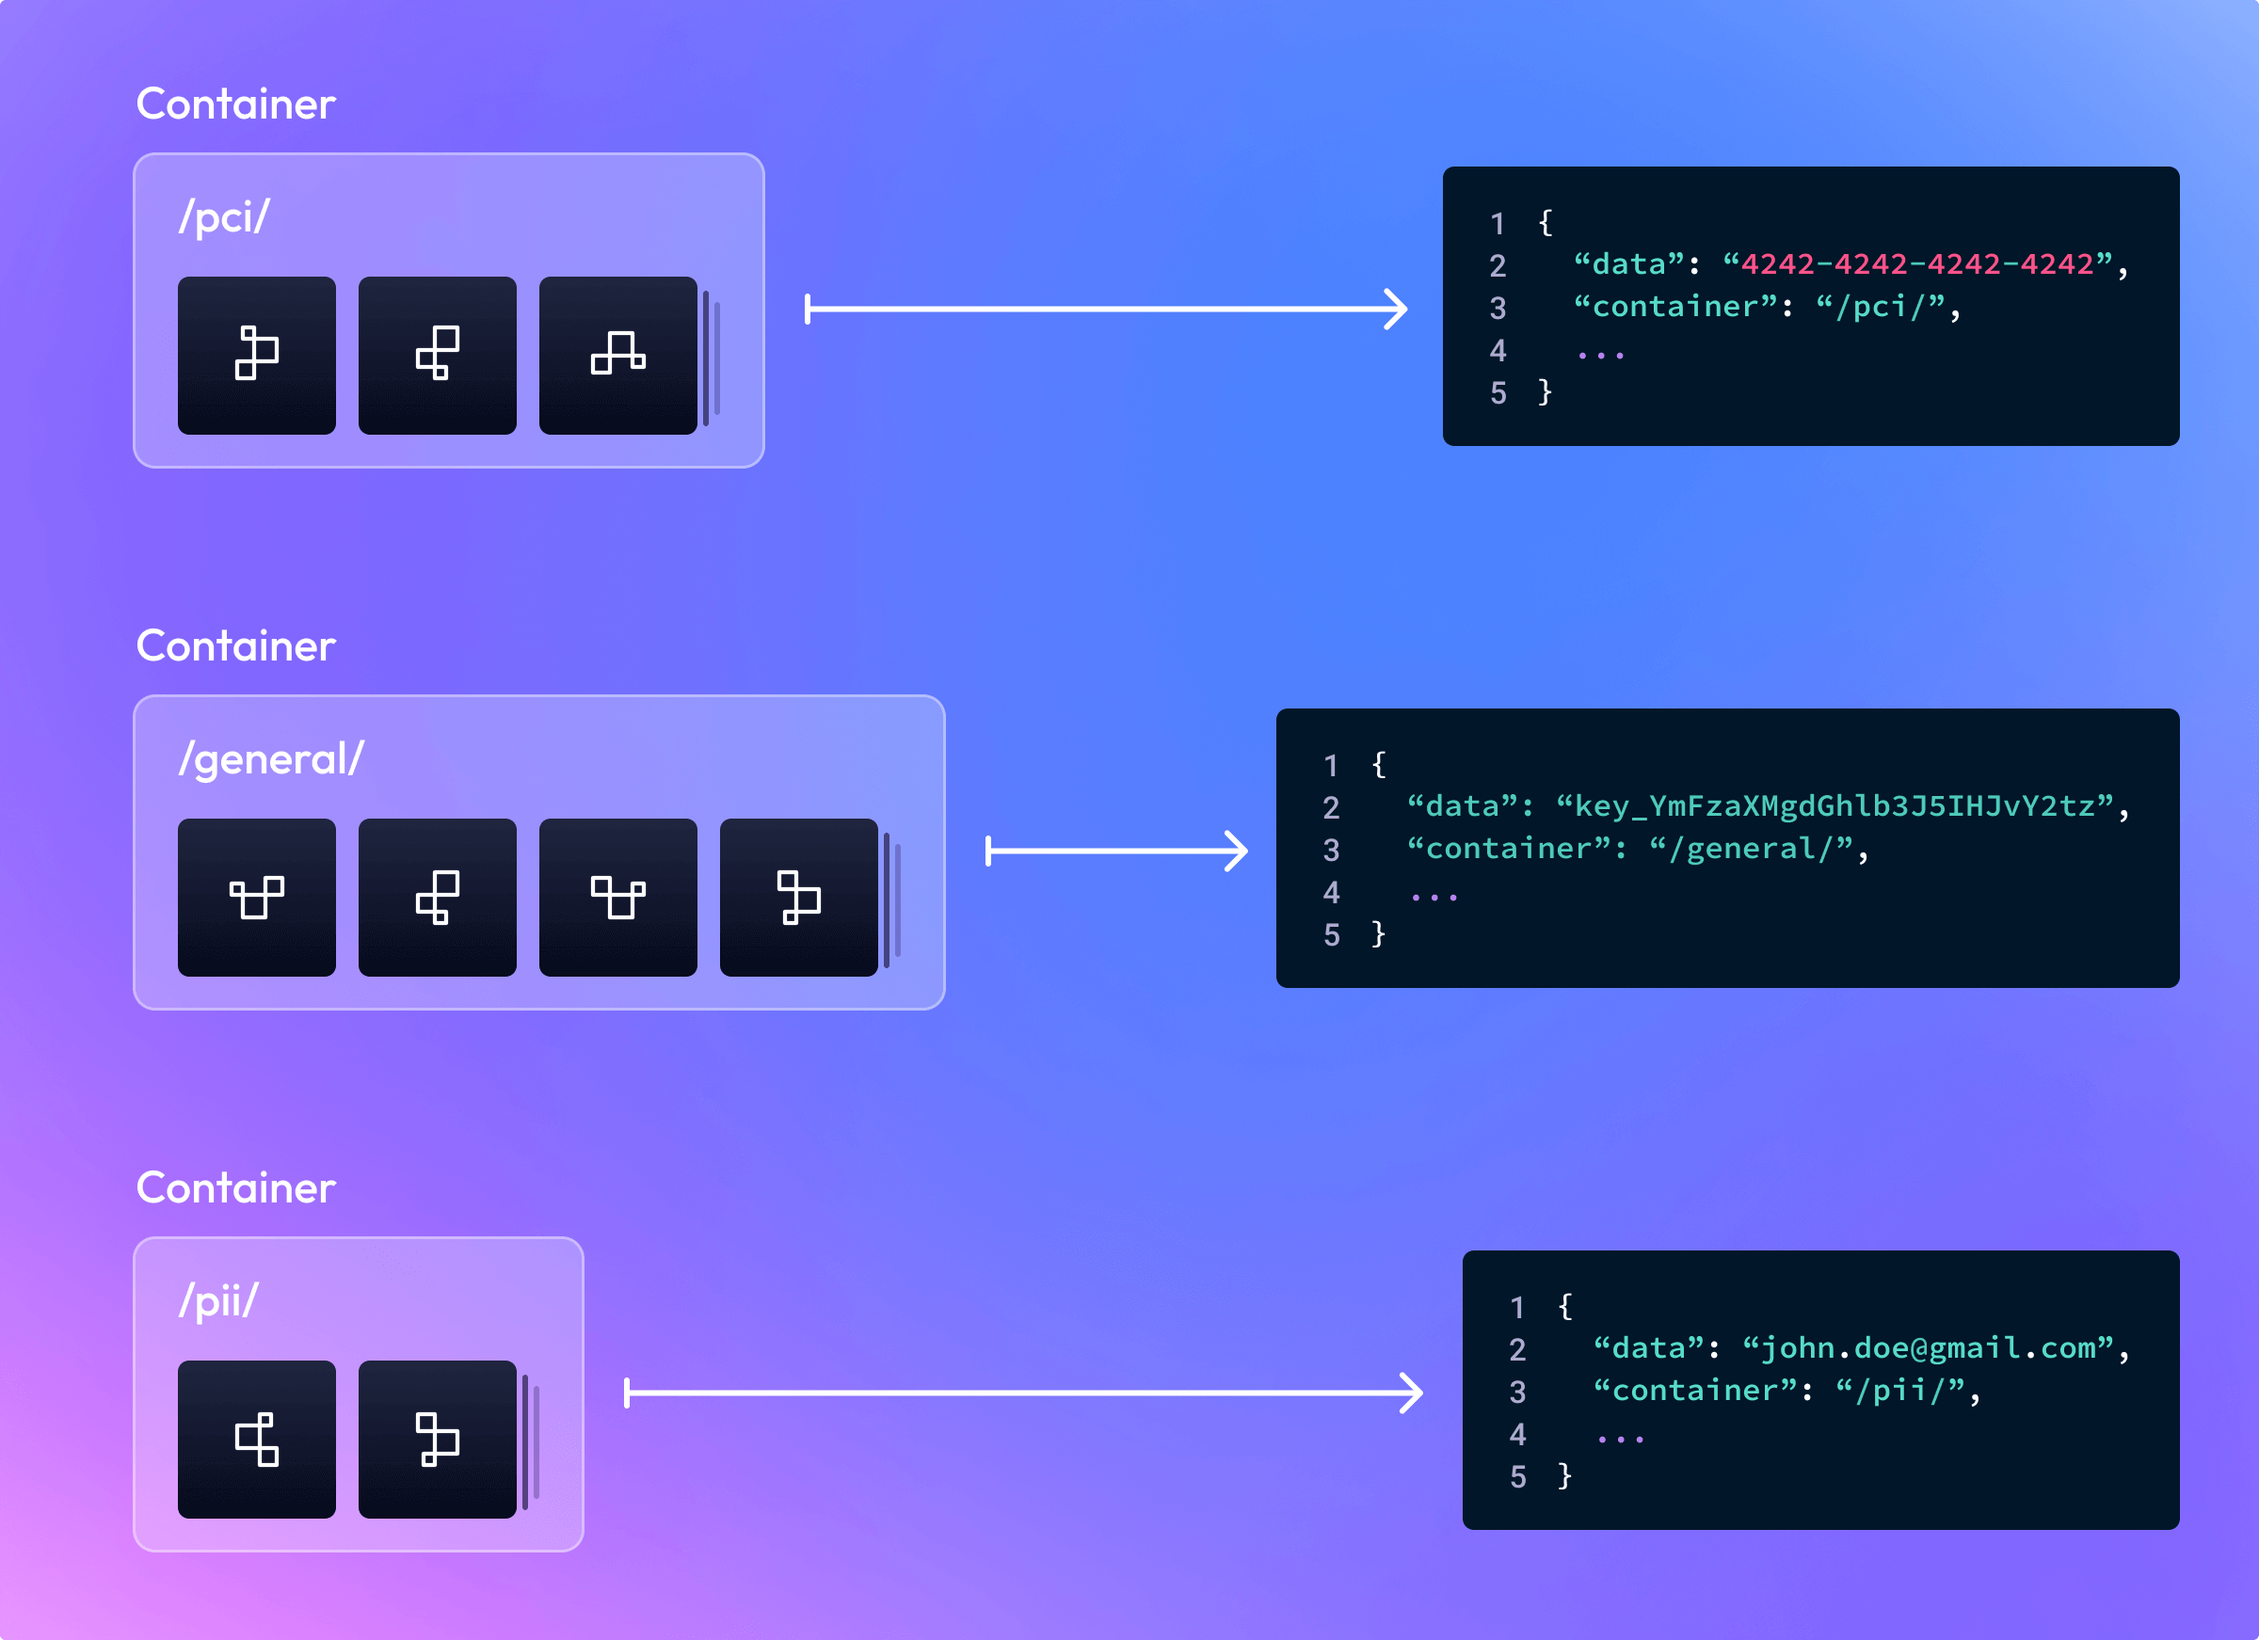
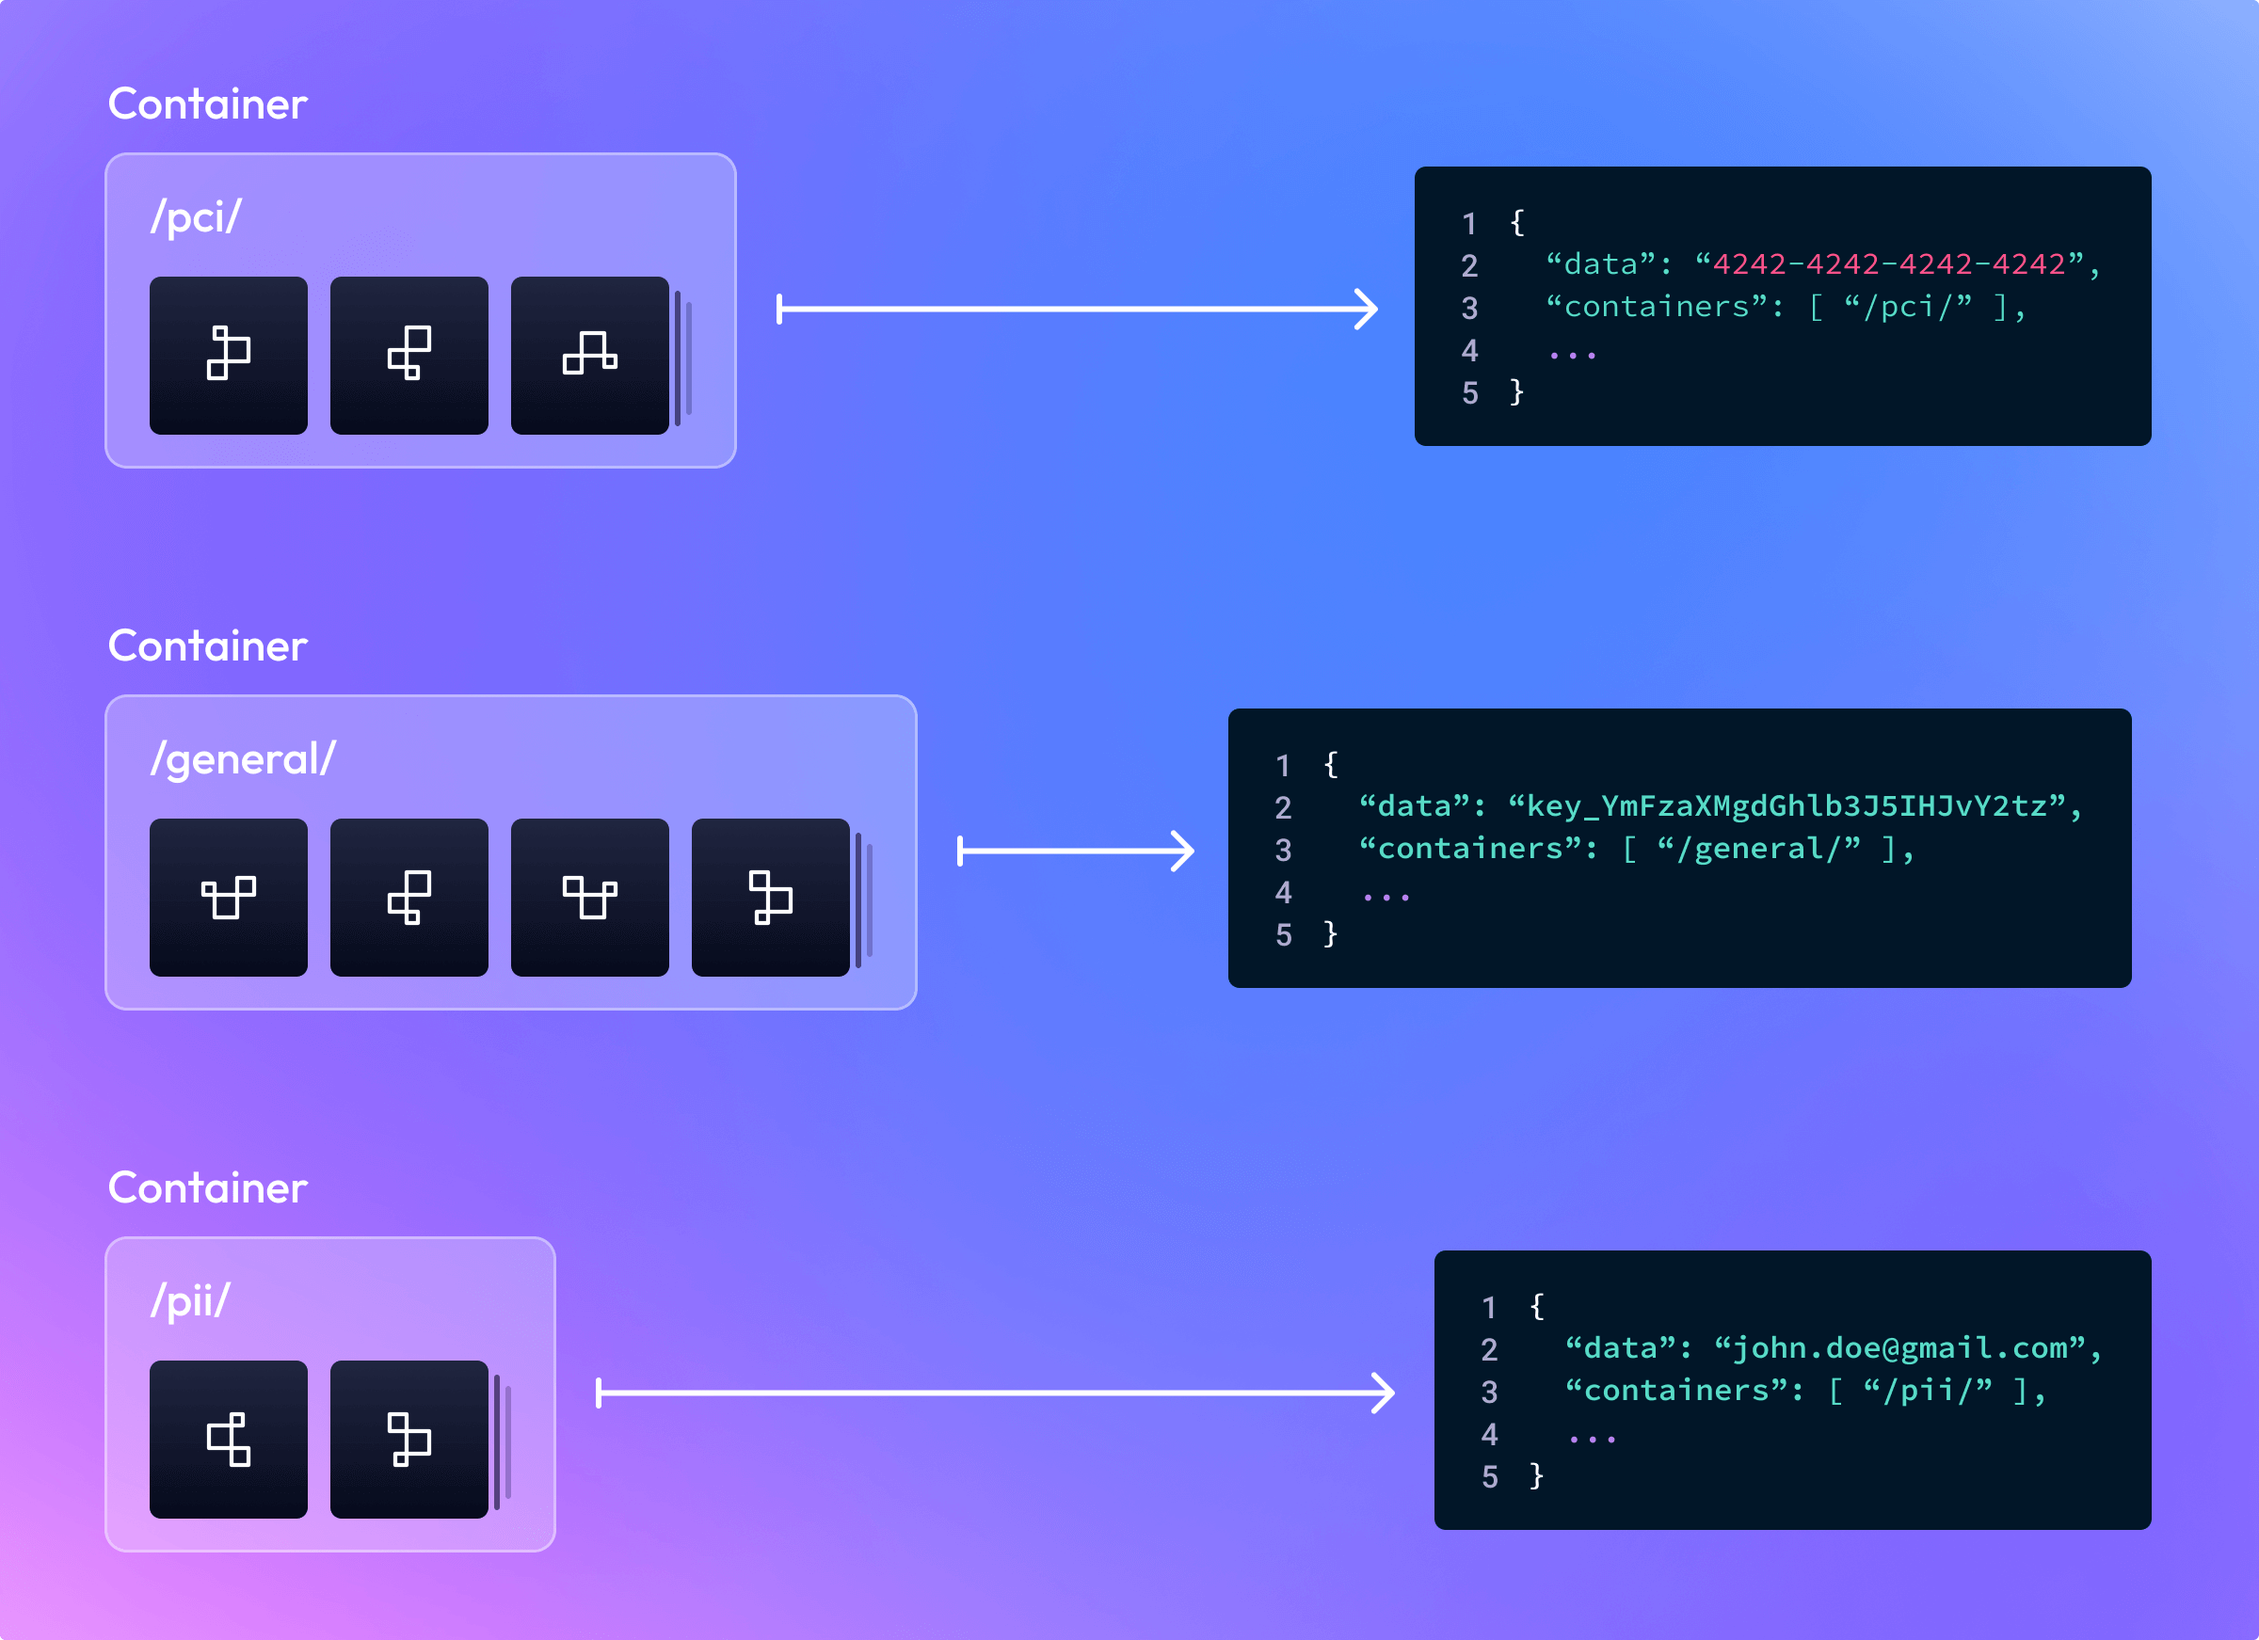
Updates containers by classification image and containers concept page

diff --git a/collections/concepts/what-are-containers.md b/collections/concepts/what-are-containers.md
@@ -28,7 +28,7 @@ You have complete control to customize your Container hierarchy to meet your uni
 By default, Tokens will be assigned to Containers based off their data classification and impact levels, using the format 
 `/<classification>/<impact_level>/`, e.g. `/pci/high/` or `/general/low/`.
 
-A Token's Container can be modified through the [Update Token](https://docs.basistheory.com/#tokens-update-token) endpoint,
+A Token's Containers can be modified through the [Update Token](https://docs.basistheory.com/#tokens-update-token) endpoint,
 provided that the Application performing the update has `token:update` permission to both the source and 
 destination Containers.
 
@@ -63,8 +63,6 @@ Tokens may also be further segmented within each customer's container, as needed
 data by classification, say between payments related Tokens and Tokens used to store a customer's contact information. 
 You could achieve this by further dividing Tokens into the sub-containers: 
 
-- `/customer-1/pci/`
-- `/customer-1/pii/`
 - `/customer-2/pci/`
 - `/customer-2/pii/`
 
